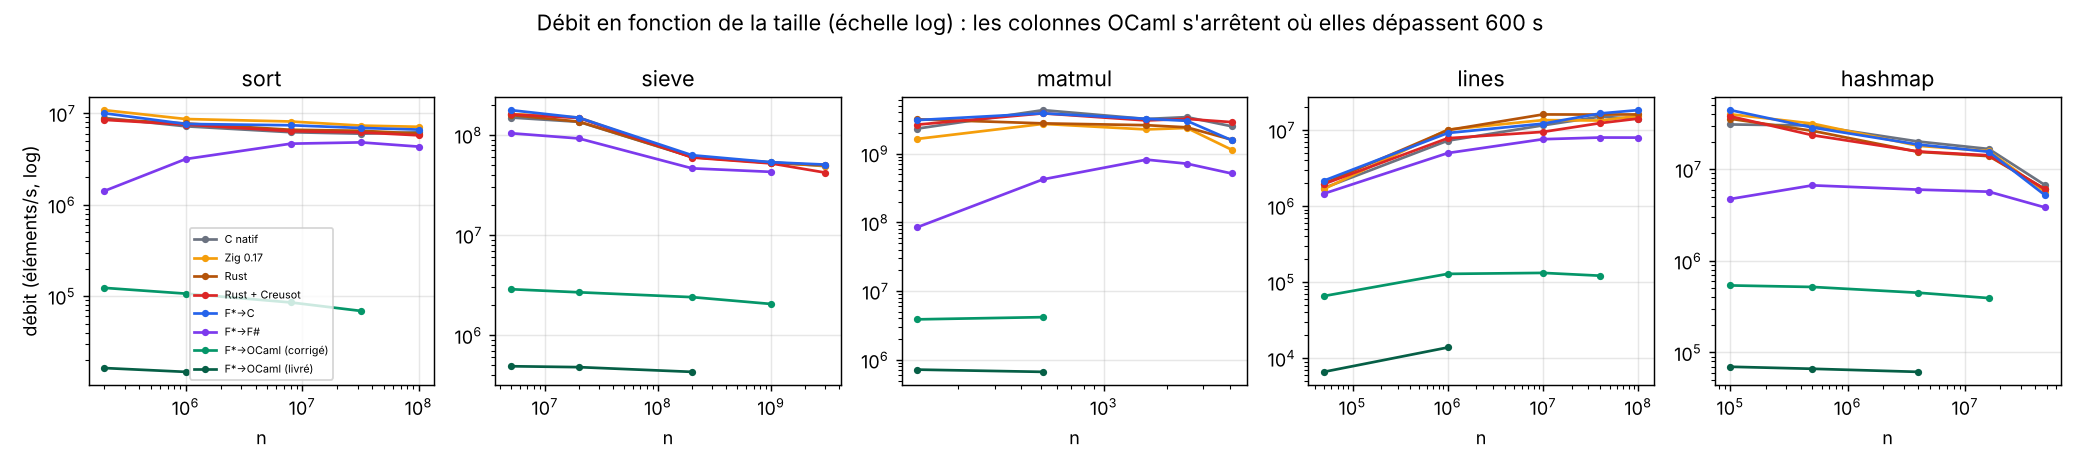
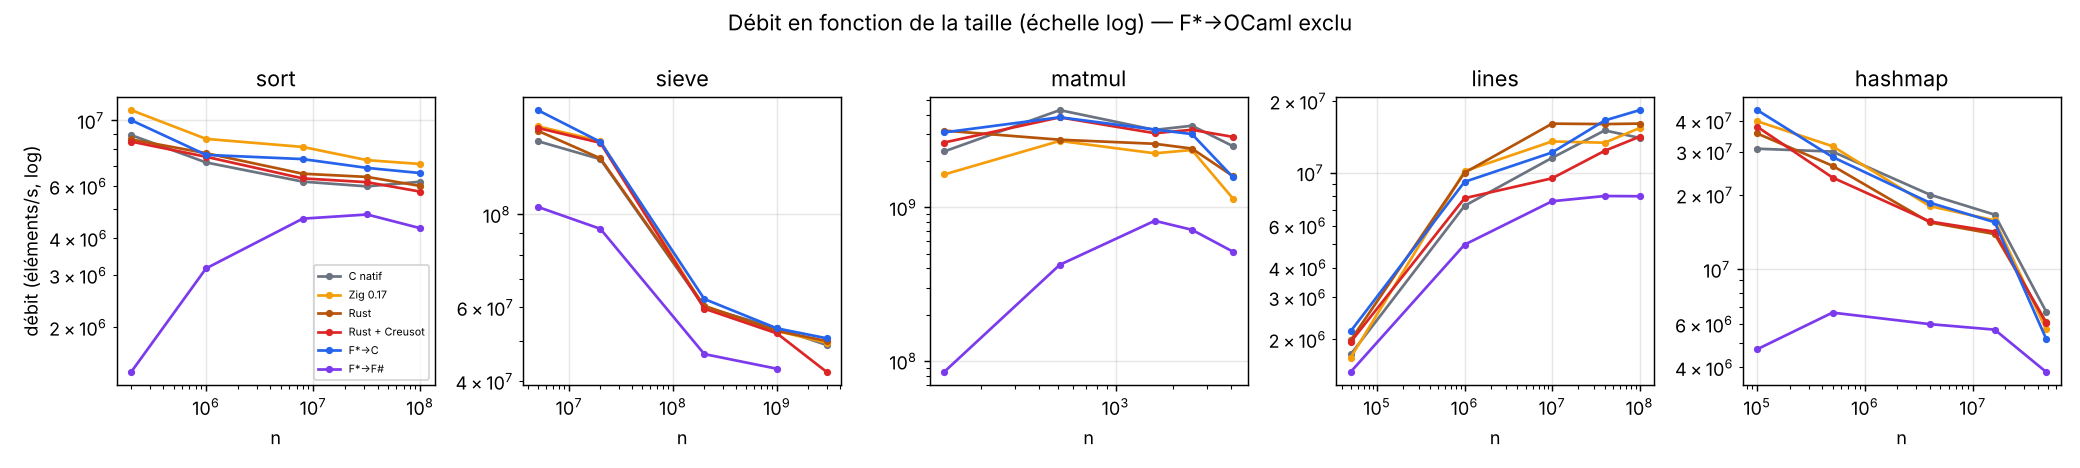
Graphes : retire F*->OCaml (écrase les échelles) et le précise dans le README
Claude-Session: https://claude.ai/code/session_019ayLiJJFqFJTGFj7Ppz9FC

diff --git a/harness/charts.py b/harness/charts.py
@@ -4,6 +4,7 @@ import sys, math
 from pathlib import Path
 sys.path.insert(0, str(Path(__file__).parent))
 import bench, readme_tables as rt
+ORDER = [i for i in rt.ORDER if "ocaml" not in i]  # OCaml exclu des graphes : 25 à 1000x plus lent, il écrase les échelles (voir tableau du README)
 import matplotlib; matplotlib.use("Agg")
 import matplotlib.pyplot as plt, matplotlib.ticker
 
@@ -34,7 +35,7 @@ def relative_bars(preset, impls, fname, title):
 def scaling(fname):
     fig, axes = plt.subplots(1, 5, figsize=(16, 3.6))
     for ax, w in zip(axes, W):
-        for i in rt.ORDER:
+        for i in ORDER:
             xs, ys = [], []
             for p in ["tiny", "small", "medium", "large", "xlarge"]:
                 t = tables(p)
@@ -42,16 +43,16 @@ def scaling(fname):
             if xs: ax.plot(xs, ys, "o-", ms=3, label=rt.SHORT[i], color=COL[i])
         ax.set_xscale("log"); ax.set_yscale("log"); ax.xaxis.set_minor_formatter(matplotlib.ticker.NullFormatter()); ax.set_title(w); ax.set_xlabel("n"); ax.grid(alpha=.3)
     axes[0].set_ylabel("débit (éléments/s, log)"); axes[0].legend(fontsize=6)
-    fig.suptitle("Débit en fonction de la taille (échelle log) : les colonnes OCaml s'arrêtent où elles dépassent 600 s"); fig.tight_layout()
+    fig.suptitle("Débit en fonction de la taille (échelle log) — F*→OCaml exclu"); fig.tight_layout()
     fig.savefig(OUT / fname, dpi=130); plt.close(fig)
 
 def memory(fname):
-    t = tables("large"); fig, ax = plt.subplots(figsize=(11, 4.4)); impls = [i for i in rt.ORDER if any(ok(t[w].get(i)) for w in W)]
+    t = tables("large"); fig, ax = plt.subplots(figsize=(11, 4.4)); impls = [i for i in ORDER if any(ok(t[w].get(i)) for w in W)]
     bw = 0.8 / len(impls)
     for j, i in enumerate(impls):
         ax.bar([k + j * bw for k in range(len(W))], [t[w][i]["rss_ratio"] if ok(t[w].get(i)) else float("nan") for w in W], bw, label=rt.SHORT[i], color=COL[i])
     ax.axhline(1, color="k", lw=.6); ax.set_yscale("log"); ax.set_xticks([k + .4 - bw / 2 for k in range(len(W))]); ax.set_xticklabels(W)
-    ax.set_ylabel("pic RAM / taille des structures (log)"); ax.set_title("Empreinte mémoire à `large` (1 = idéal)"); ax.legend(ncol=3, fontsize=8)
+    ax.set_ylabel("pic RAM / taille des structures (log)"); ax.set_title("Empreinte mémoire à `large` (1 = idéal) — F*→OCaml exclu"); ax.legend(ncol=3, fontsize=8)
     ax.grid(axis="y", alpha=.3); fig.tight_layout(); fig.savefig(OUT / fname, dpi=130); plt.close(fig)
 
 def proof_cost(fname):
@@ -63,7 +64,6 @@ def proof_cost(fname):
     ax.set_title("Coût de la vérification"); fig.tight_layout(); fig.savefig(OUT / fname, dpi=130); plt.close(fig)
 
 native = ["c-native", "zig", "rust-plain", "rust-creusot", "fstar-c", "fstar-fsharp"]
-relative_bars("large", native, "relatif-large.png", "Temps relatif au meilleur, `large` (hors OCaml)")
-relative_bars("large", rt.ORDER, "relatif-large-avec-ocaml.png", "Temps relatif au meilleur, `large` (OCaml inclus : trous = délai 600 s dépassé)")
+relative_bars("large", native, "relatif-large.png", "Temps relatif au meilleur, `large` (F*→OCaml exclu, voir tableau)")
 scaling("debit-vs-taille.png"); memory("memoire-large.png"); proof_cost("cout-preuve.png")
 print("ok", sorted(p.name for p in OUT.iterdir()))

diff --git a/README.md b/README.md
@@ -229,15 +229,17 @@ Temps relatif au meilleur de la ligne, taille `large` (1,00 = meilleur ; « > 60
 
 Graphes (générés par `python3 harness/charts.py`, source : `results/run-*.json`) :
 
-1. **Temps relatif au meilleur, `large`, hors OCaml** : montre que les cinq colonnes natives/vérifiées sont dans un mouchoir et que seul F# s'en détache.
+> **F\* → OCaml (livré et corrigé) est volontairement absent de tous les graphes** : il est de ×26 à ×136 plus lent que le meilleur à `large`
+> (jusqu'à ×1000 à `small`), dépasse le délai de 600 s sur `matmul` et sur tout `large` pour le runtime livré, et consomme jusqu'à ×8 la RAM idéale.
+> Sur la même échelle il écrase les autres courbes. Ses chiffres sont dans le tableau ci-dessus et dans les tableaux de la section Résultats.
+
+1. **Temps relatif au meilleur, `large`** (échelle log) : les cinq colonnes natives ou vérifiées sont dans un mouchoir, seul F# s'en détache.
    ![relatif](results/charts/relatif-large.png)
-2. **Même graphe, OCaml inclus (échelle log)** : l'écart de deux ordres de grandeur du backend OCaml.
-   ![relatif OCaml](results/charts/relatif-large-avec-ocaml.png)
-3. **Débit en fonction de la taille** : un panneau par workload ; courbes plates = pas de dégradation avec la charge ; les courbes OCaml s'arrêtent où le délai est dépassé.
+2. **Débit en fonction de la taille** : un panneau par workload ; le débit baisse quand les données sortent des caches (`sieve`, `hashmap`) de la même façon pour toutes les colonnes natives, et les courbes F# restent en dessous sans converger.
    ![débit](results/charts/debit-vs-taille.png)
-4. **Mémoire à `large`** (pic RAM ÷ taille des structures, échelle log) : C/Zig/Rust à ~1, .NET entre 1,2 et 3, OCaml jusqu'à 8.
+3. **Mémoire à `large`** (pic RAM ÷ taille des structures, échelle log) : C/Zig/Rust à ~1, .NET entre 1,2 et 3.
    ![mémoire](results/charts/memoire-large.png)
-5. **Coût de la vérification** : le prix de la preuve, payé hors exécution.
+4. **Coût de la vérification** : le prix de la preuve, payé hors exécution.
    ![preuve](results/charts/cout-preuve.png)
 
 ### Ce que disent ces chiffres (et ce qu'ils ne disent pas)
